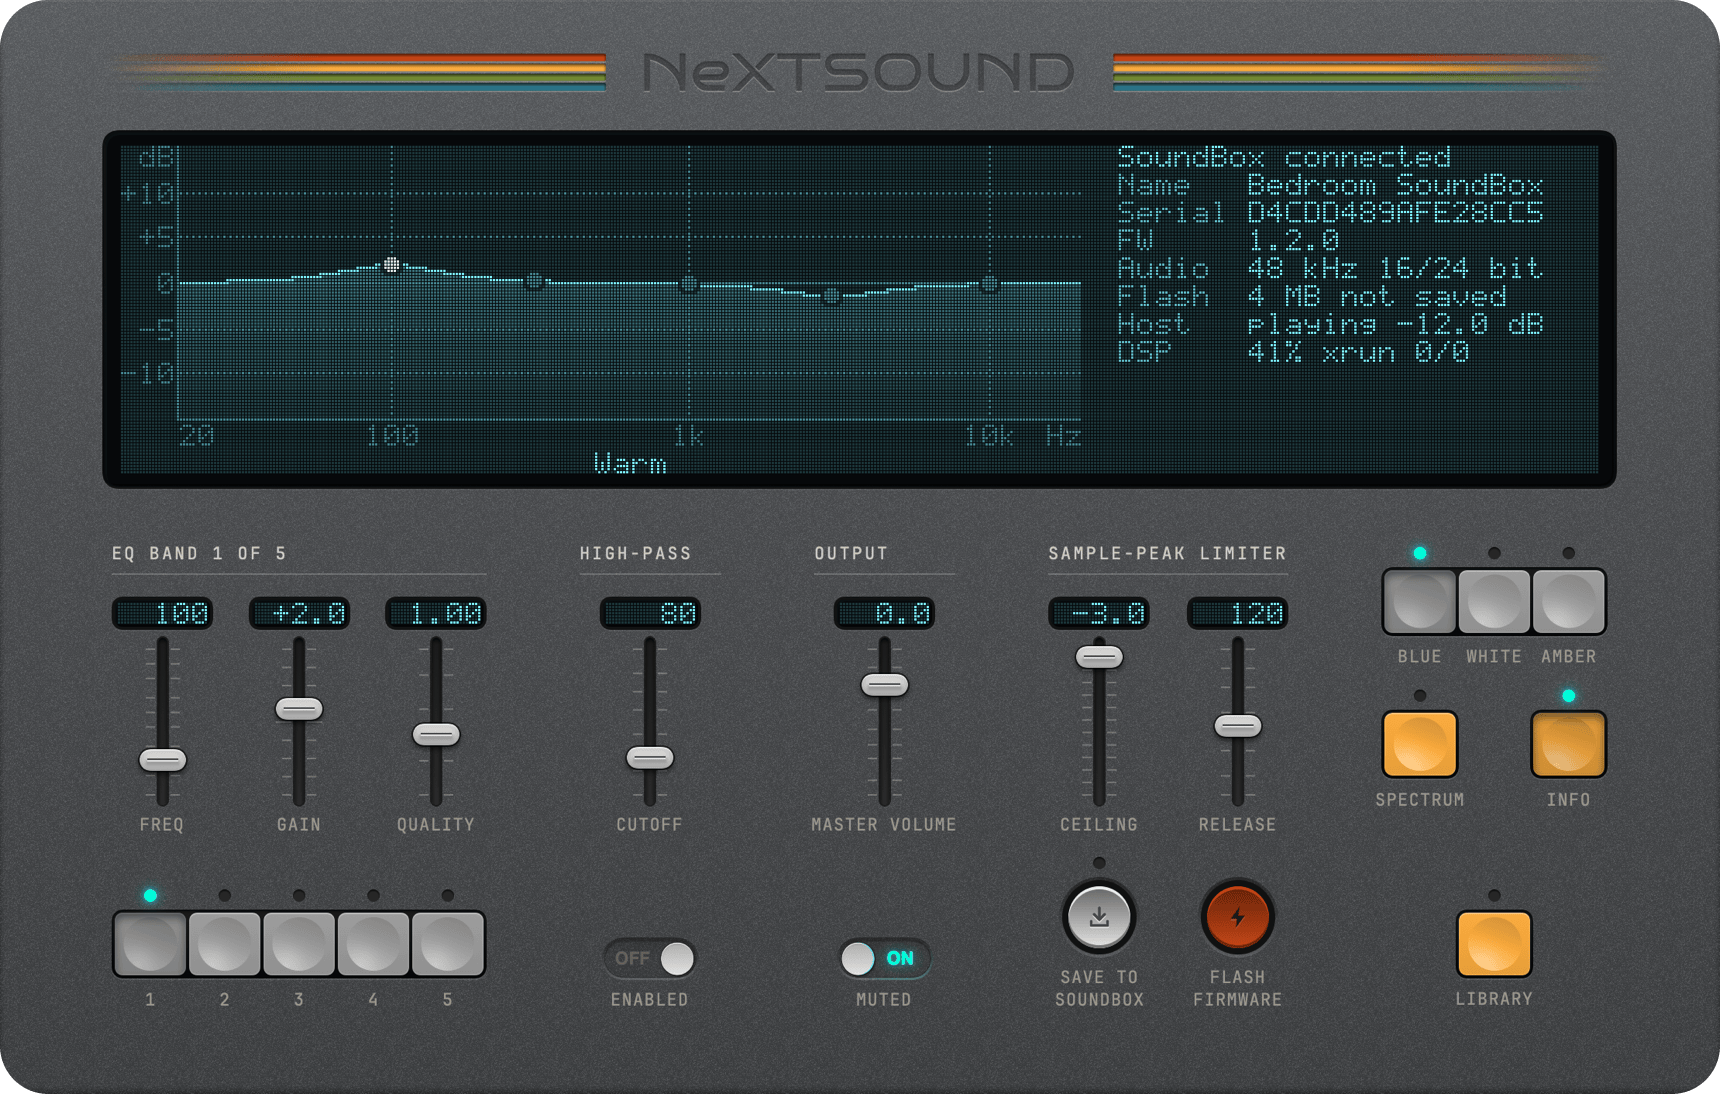
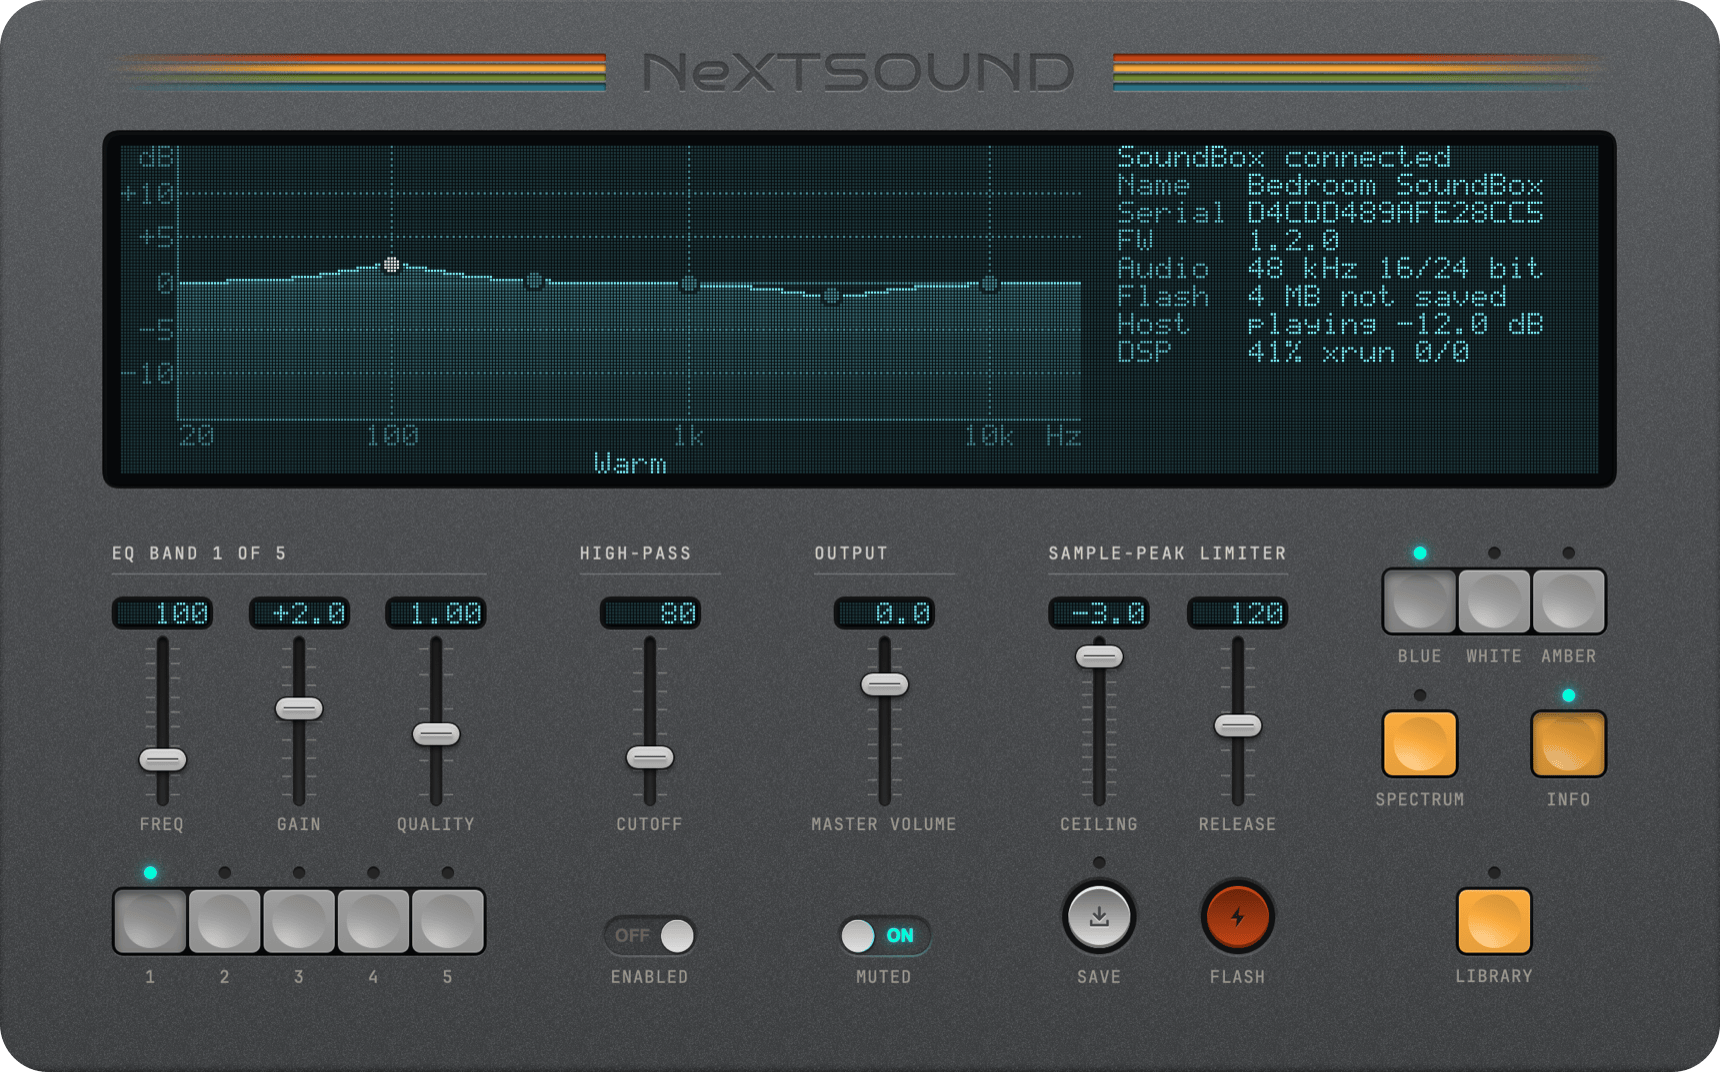
Docs: The README's hero shows the front panel with SAVE and FLASH
- Scripts/readme-hero.sh renders the connected front panel into the hero, scales it, cuts the rounded corners and compresses it
- The hero is regenerated with it
- App.md describes the script and the serialized rendering suites

diff --git a/Documentation/App.md b/Documentation/App.md
@@ -198,7 +198,9 @@ xcrun swift test --package-path App/Workbench
 xcrun swift run --package-path App/Workbench NeXTsoundWorkbenchRender "$PWD/.build/app-render"
 ```
 
-The renderer runs with activation prohibited and opens no window. It renders the front panel without and with a board, the Library panel and the About window at scale 2 through SwiftUI's own renderer, which draws a placeholder over the area of any AppKit view. The panels' AppKit views therefore take no room. The About window shows preview values for its version and copyright, and the installed app's icon, or the generic app icon where NeXTsound is not installed. These images show the implemented SwiftUI content, not screenshots of a running NeXTsound application.
+The renderer runs with activation prohibited and opens no window. It renders the front panel without and with a board, the Library panel and the About window at scale 2 through SwiftUI's own renderer, which draws a placeholder over the area of any AppKit view. The panels' AppKit views therefore take no room. The About window shows preview values for its version and copyright, and the installed app's icon, or the generic app icon where NeXTsound is not installed. These images show the implemented SwiftUI content, not screenshots of a running NeXTsound application. `bash Scripts/readme-hero.sh` turns the connected front panel into the README's hero image, `Documentation/Images/front-panel.png`, 1720 pixels wide with its rounded corners cut into the file, because GitHub drops style attributes from a README. It needs `pngquant` from Homebrew. Run it after a change to the front panel.
+
+Every test suite that renders through `ImageRenderer` is nested in `RenderingTests`, which carries `.serialized`. `ImageRenderer` turns the main run loop while it renders, so two tests rendering at once would hand back each other's pixels.
 
 Tests cover canonical round trips, malformed input, directory rejection, revision/identity failures, atomic edits, metadata preservation, analytical response, display geometry, library validation/limits, store load/save/corruption recovery, board disconnect/reconnect, stale and malformed replies, identity mismatch, device name round trips (including the shared space-permitting validation and the firmware's fixed-length flash storage), a broken store never blocking the model from becoming ready, the driver library's validation, persistence round trips, and its independence from any connected board, the debounced auto-apply action sending the edited profile's settings unchanged to a verified board while silently skipping without one, with error surfacing on a genuine transport failure, saving to the board applying the profile before persisting it, a failed save leaving the board unsaved, a board without storage never receiving a save, a save requested during an apply following it, the storage state read from the active and persisted generations, and the A/B slots: capture leaving the library untouched and isolated from later edits, recall changing only the DSP settings with undo support, and recall of an empty slot being a no-op. The directory case was observed crashing before checking `isRegularFile` ahead of `regularFileContents`. `FlashServiceTests` exercises the picotool command sequence and phase order against a fake runner for both the known-serial and unknown-serial paths, that a failed write never issues the final reboot, and that a board never appearing in BOOTSEL times out; none of this has run against the embedded picotool binary talking to real hardware. The Library panel's tests cover selection, renaming, the profile keys and the speaker choice going through the model's edit path, the lines of its list and readouts, captions that break only between words, the captions of neighboring profile keys keeping at least three points apart, radio keys staying gray while push keys take the stripes' yellow, the split of a color into hue, saturation and brightness that turns the FLASH button's shades into the stripes' red, and every dot of both panels falling on whole device pixels at scale 2. The display's tests cover the status column sliding out by the columns it takes from the curve, the curve's 0 dB line running through the column's gap while the column is out, when a message shows in its card and when it leaves, the card centering on the display around its text, the card's rounded corners, 0 dB on the curve's middle row, and the scales' labels standing at their lines without touching each other. The spectrum's tests cover its bands, a full-scale and a half-scale sine on their bands, silence, the update rate, the rise and the fall, the monitor following its source and reporting a failed start, the board's audio device found by its serial and USB identity, the tap's channels turned into interleaved stereo, the host's volume and mute, a profile edit reaching the signal after its crossfade, refused settings leaving it as it is, the level rows, labels and bars, and the bar lighting at its level in a render while the curve's 0 dB line gives way. Nothing in the tests taps real audio. A window test hosts the front panel under a hidden title bar and checks that the window takes the panel's size and shows the metal in every pixel of its top and bottom rows. A layout test checks that the row of modules gives a one-slider module two thirds of the limiter's width. The owner details' tests cover the register's proposal, refusal, gap warning, takeover and stored form, the edit form's draft and every problem it reports, the monitor reading and writing the details, and the status column's owner lines. Further tests cover the status column read from the model, the Driver Models window's selection, draft, Apply and Delete, the driver form's conversions, the flash sheet's conditions and its restart status, the display color reaching the dots through the environment while each panel's stored choice wins over one around it, and the About window's version, build and copyright read from the Info.plist with its readout's dots on whole device pixels.
 
